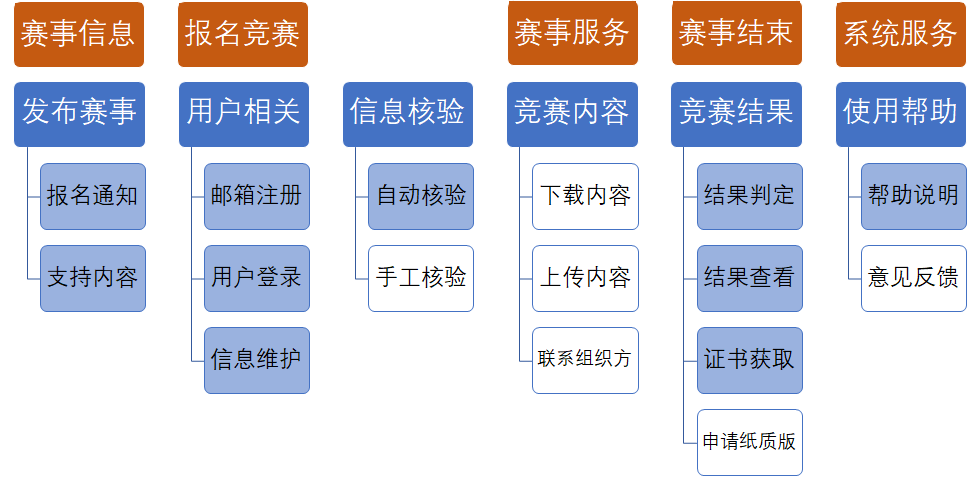
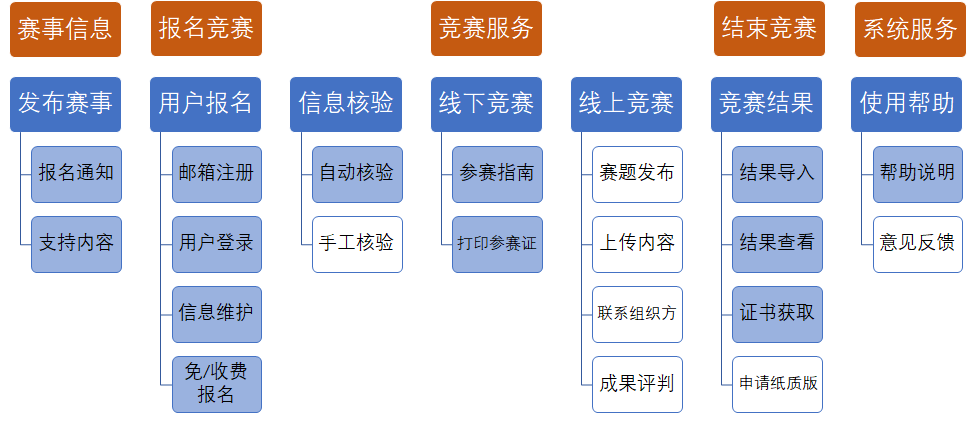
Update 产品定义与故事

diff --git a/wiki/产品定义与故事/产品定义与故事.md b/wiki/产品定义与故事/产品定义与故事.md
@@ -16,7 +16,7 @@ J01组
 
 ##### 竞赛工作人员
 
-- 来源简单，负责竞赛的事务性工作（包括赛事信息发布、报名人员核验等）；
+- 来源简单，负责竞赛的事务性工作（包括赛事信息发布、报名人员核验、纸质证书发放等）；
 - 有一定的竞赛组织经验，熟悉竞赛流程；
 - 对自动化办公有一定需求。
 
@@ -27,6 +27,12 @@ J01组
 - 可能不具有参加竞赛的经验，不了解竞赛流程；
 - 有获取获奖证书的需求。
 
+##### （可能存在的）竞赛评委
+
+- 线上竞赛可能需要评委使用竞赛服务平台直接评分；
+- 有一定 Web 应用使用经验；
+- 对参赛作品的内容获取、阅读与展示的便捷性、可靠性有要求。
+
 
 
 #### 痛点与解决方案
@@ -35,7 +41,7 @@ J01组
 
     本产品计划使用自动与手动核验两种方式。自动核验使用学信网平台的学籍在线验证系统，主要针对大部分报名参赛的大陆高校在校学生；手动核验供无法使用学信网平台的高校在校生使用，报名者上传学生证照片等相关材料、由工作人员进行手动审核。
 
-- 竞赛活动结束后，发放获奖证书工作量很大，且手工制作极易出错，同时也缺少防伪机制等。
+- 竞赛活动结束后，发放获奖证书工作量很大，手工制作极易出错，同时也缺少防伪机制等。
 
     本产品计划开发自动生成电子版获奖证书的功能，使获奖的参赛人员可自助获取电子证书，同时附有防伪校验信息。如需获取纸质版证书，也可通过在线申请，由工作人员导出电子版证书打印并寄出。
 
@@ -44,16 +50,17 @@ J01组
 #### 产品目标
 
 - 为竞赛工作人员提供竞赛信息发布功能，可以汇总竞赛信息便于参赛人员查看。
-- 报名参赛人员需要注册、提供个人的学籍信息并进行核验，核验分学信网自动核验与工作人员手动核验两种方式。
-- 为报名参赛人员提供参赛指南、通知提醒等功能。
+- 为欲报名参赛人员提供注册、身份核验等功能，身份核验分学信网自动核验与工作人员手动核验两种方式。
+- 为参赛人员提供参赛指南、通知提醒等功能，包括竞赛的线下部分的详细指南。
+- 【可选】为线上组织的竞赛提供系统支持，可以在平台完成全流程的竞赛活动（包括打分、评级等）。
 - 竟赛结束后支持工作人员导入成绩信息并发布获奖情况。
-- 参赛人员可自行获取附有校验信息的电子版证书，也可申请纸质版证书。
+- 参赛人员可查看获奖情况、自行获取附有校验信息的电子版证书，也可申请纸质版证书。
 
 
 
 #### 产品愿景
 
-- 整合竞赛相关信息，提供全面的竞赛流程服务。
+- 整合竞赛相关信息，提供全面的竞赛流程服务，降低参赛人员获取信息的成本和负担。
 - 减轻工作人员核验报名者的工作压力、同时通过学信网等平台的学籍信息服务，提高核验的准确性，有效防止无资格人员参赛。
 - 减轻工作人员手动制作获奖证书的工作压力，同时便利获奖人员获取与保存电子版证书。
 
@@ -71,69 +78,110 @@ J01组
 
 #### 具体用户故事
 
+##### 发布赛事
+
 - 报名通知
 
-    竞赛工作人员可以发布竞赛的报名通知。
+    作为竞赛工作人员，可以发布竞赛的报名通知，以便于欲报名参赛者获取信息。
 
 - 支持内容
 
-    竞赛工作人员可以发布竞赛所需的文档、软件、数据等内容。
+    作为竞赛工作人员，可以发布竞赛所需的文档、软件、数据等内容，以便于参赛者集中获取。
+
+    
+
+##### 用户报名
 
 - 邮箱注册
 
-    用户可以通过邮箱注册。
-
+    - 作为用户，可以通过邮箱注册，以便于开展后续流程。
+    - 考虑后续如开发微信小程序等，可直接使用其账号系统。
 - 用户登录
 
-    用户可以通过 Web 页面登录。
-
+    - 作为用户，可以通过 Web 页面登录，以便于开展后续流程。
+    - 考虑后续如开发微信小程序等，可保持登录状态。
 - 信息维护
 
-    用户可以维护个人信息。
+    - 作为用户，可以维护个人信息，以简化后续竞赛可能需要采集个人信息的步骤。
+    - 【可选】作为参赛人员，可以维护组队信息和辅导老师信息，以组队参赛并补充相关信息。
+- 免 / 收费报名
+    - 作为用户，可以通过平台报名竞赛，以便于参加后续竞赛流程。
+    - 考虑竞赛如有收费需求，引入某些支付平台（可能存在资质问题难以开展）。
+
+
+
+##### 信息核验
 
 - 自动核验
 
-    用户可以通过提交学信网校验码自动核验个人学籍信息。
+    作为报名参赛人员，可以通过提交学信网校验内容自动核验个人学籍信息，以便于快速认证竞赛资格。
 
 - 手工核验
 
     - 在用户无法自动核验时，可通过提交学生证照片等方式申请手工核验。
+    - 作为竞赛工作人员，可以审核报名人员提交的手工核验内容，以解决特殊用户的认证需求。
 
-    - 竞赛工作人员可以审核报名人员提交的手工核验内容。
 
-- 下载内容
 
-    已报名人员可以下载竞赛相关的文档、软件、数据等内容。
+##### 线下竞赛
+
+- 参赛指南
+
+    作为参赛人员，可以获取线下竞赛的相关信息，以便于其按要求参加竞赛。
+
+- 打印参赛证
+
+    作为参赛人员，可以打印线下竞赛所需的参赛证，以证明参赛资格。
+
+
+
+##### 线上竞赛
+
+- 赛题发布
+
+    作为竞赛工作人员，可以发布线上竞赛可能需要补充的赛题信息，以开展竞赛。
 
 - 上传内容
 
-    已报名人员可以上传竞赛作品、文档等内容。
+    作为参赛人员，可以上传竞赛作品、文档等内容，以完成竞赛内容。
 
 - 联系组织方
 
-    已报名人员可以就有关竞赛的疑问联系组织人员。
+    作为参赛人员，可以就线上竞赛的疑问联系组织人员，以顺利完成竞赛。
 
-- 结果判定
+- 成果评判
 
-    - 竞赛工作人员可以通过平台上直接判定的方式给出成绩。
-    - 竞赛工作人员可以通过上传结果文件的方式录入成绩。
+    作为竞赛评委，可以在竞赛服务平台直接对参赛作品进行评价，以便于发布竞赛结果。
+
+
+
+##### 竞赛结果
+
+- 结果导入
+
+    - 作为竞赛工作人员，可以通过平台逐个为参赛人员给出成绩，以便于发布竞赛结果。
+    - 作为竞赛工作人员，可以通过上传结果文件的方式录入成绩，以便于发布竞赛结果。
 
 - 结果查看
 
-    参赛人员可以查看个人竞赛结果。
+    作为参赛人员，可以查看竞赛结果，以确定奖项。
 
 - 证书获取
 
-    获奖人员可以获取电子版证书。
+    作为获奖人员，可以获取电子版证书，以证明参赛成绩。
 
 - 申请纸质版
 
-    获奖人员可以申请纸质版证书。
+    作为获奖人员，可以申请纸质版证书，以证明参赛成绩。
+
+
+
+##### 使用帮助
 
 - 帮助说明
 
-    用户可以查看系统帮助。
+    作为用户，可以查看系统帮助，以便于使用竞赛服务平台。
 
 - 意见反馈
 
-    用户可以通过反馈系统表达意见与建议。
+    作为用户，可以通过反馈系统表达意见与建议，以便于平台改进服务。

diff --git a/wiki/竞品分析/竞品分析：摩课云竞赛服务平台.md b/wiki/竞品分析/竞品分析：摩课云竞赛服务平台.md
@@ -34,7 +34,7 @@
 
   1. 提供竞赛网站搭建及运维服务：
 
-     协助竞赛主办方进行竞赛主页的搭建，为赛事提供宣传、展示、资讯发布、成果展示、报名登录入口，并未竞赛网站日常运维等提供服务。
+     协助竞赛主办方进行竞赛主页的搭建，为赛事提供宣传、展示、资讯发布、成果展示、报名登录入口，并为竞赛网站日常运维等提供服务。
 
   2. 提供竞赛执行服务：
 

diff --git a/wiki/Meeting Records/软件工程 第一次小组会议 会议纪要.md b/wiki/Meeting Records/软件工程 第一次小组会议 会议纪要.md
@@ -38,7 +38,7 @@
 
    内容：讨论前后端所需的技术栈，确定使用的框架。
 
-   结果：前后端分离，后端采用django+mysql，其中mysql在云端部署。前端采用vue+vurtify组件，此外，还需要微信小程序的开发技术。
+   结果：前后端分离，后端采用django+mysql，其中mysql在云端部署。前端采用vue+vuetify组件，此外，还需要微信小程序的开发技术。
 
 5. ##### 下次组会准备
 
